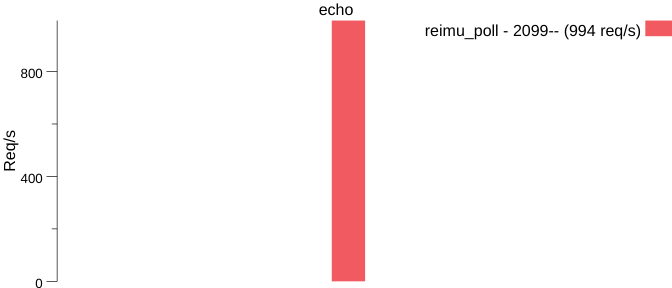
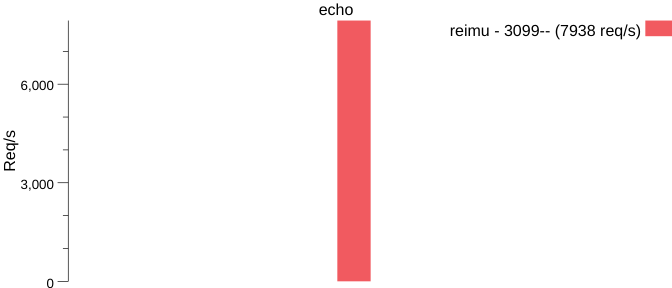
压力测试

diff --git a/reimu/TcpConn.cpp b/reimu/TcpConn.cpp
@@ -93,20 +93,17 @@ namespace reimu {
                 _input_buf->Write(buffer);
             }
 
-            while (true) {
-                auto s = _input_buf->ToSlice();
-                auto msg = _codec->tryDecode(s);
-                if (!msg.empty()) {
-                    _input_buf->Consume(msg.size());
-                    // 解析到数据 调用回调并且尝试再次解析
-                        _loop->CreateTask([this, msg, conn]() {
-                        this->_msg_cb(conn, msg);
-                    });
-                    continue;
-                } else {
-                    return;
-                }
+            auto s = _input_buf->ToSlice();
+            auto msg = _codec->tryDecode(s);
+            if (!msg.empty()) {
+                _input_buf->Consume(msg.size());
+                // 解析到数据 调用回调并且尝试再次解析
+                    _loop->CreateTask([this, msg, conn]() {
+                    this->_msg_cb(conn, msg);
+                });
+                _input_buf->Consume(msg.length());
             }
+            return;
         }
 
     }

diff --git a/reimu/event/EventLoop.cpp b/reimu/event/EventLoop.cpp
@@ -139,14 +139,16 @@ namespace reimu {
 
             _poller->Poll(_poll_wait, activeChannels);
             for (auto &c : activeChannels) {
-                // 并发处理
-                if (c->GetEvents() & (_poller->REIMU_POLLIN | _poller->REIMU_POLLERR)) {
-                    c->HandleRead();
-                }
-                if (c->GetEvents() & (_poller->REIMU_POLLOUT)) {
-                    c->HandleWrite();
-                } else {
-                    // 异常的事件
+                if (c) {
+                    // 并发处理
+                    if (c->GetEvents() & (_poller->REIMU_POLLIN | _poller->REIMU_POLLERR)) {
+                        c->HandleRead();
+                    }
+                    if (c->GetEvents() & (_poller->REIMU_POLLOUT)) {
+                        c->HandleWrite();
+                    } else {
+                        // 异常的事件
+                    }
                 }
             }
         }

diff --git a/reimu/TcpServer.cpp b/reimu/TcpServer.cpp
@@ -21,7 +21,7 @@ namespace reimu {
     }
 
     void TcpServer::handleAccept(reimu::SocketPtr socket) {
-        INFO_LOG.Log("服务器收到 来自: %s 的请求", socket->_addr.ToString().c_str());
+        //INFO_LOG.Log("服务器收到 来自: %s 的请求", socket->_addr.ToString().c_str());
         auto c = std::make_shared<TcpConn>(_loop, _conn_timeout, socket);
         c->OnMsg(_conn_msg_cb);
         c->OnConnected(_conn_connected_cb);

diff --git a/tests/test_server.cpp b/tests/test_server.cpp
@@ -15,7 +15,7 @@ int main() {
 
     auto loop = reimu::EventLoop::GetInstance();
 
-    auto s = new reimu::TcpServer(loop, "0.0.0.0", 2099);
+    auto s = new reimu::TcpServer(loop, "0.0.0.0", 3099);
 
     s->OnConnMsg([](reimu::TcpConnPtr conn,  const std::string & msg) {
         conn->Send(msg);
